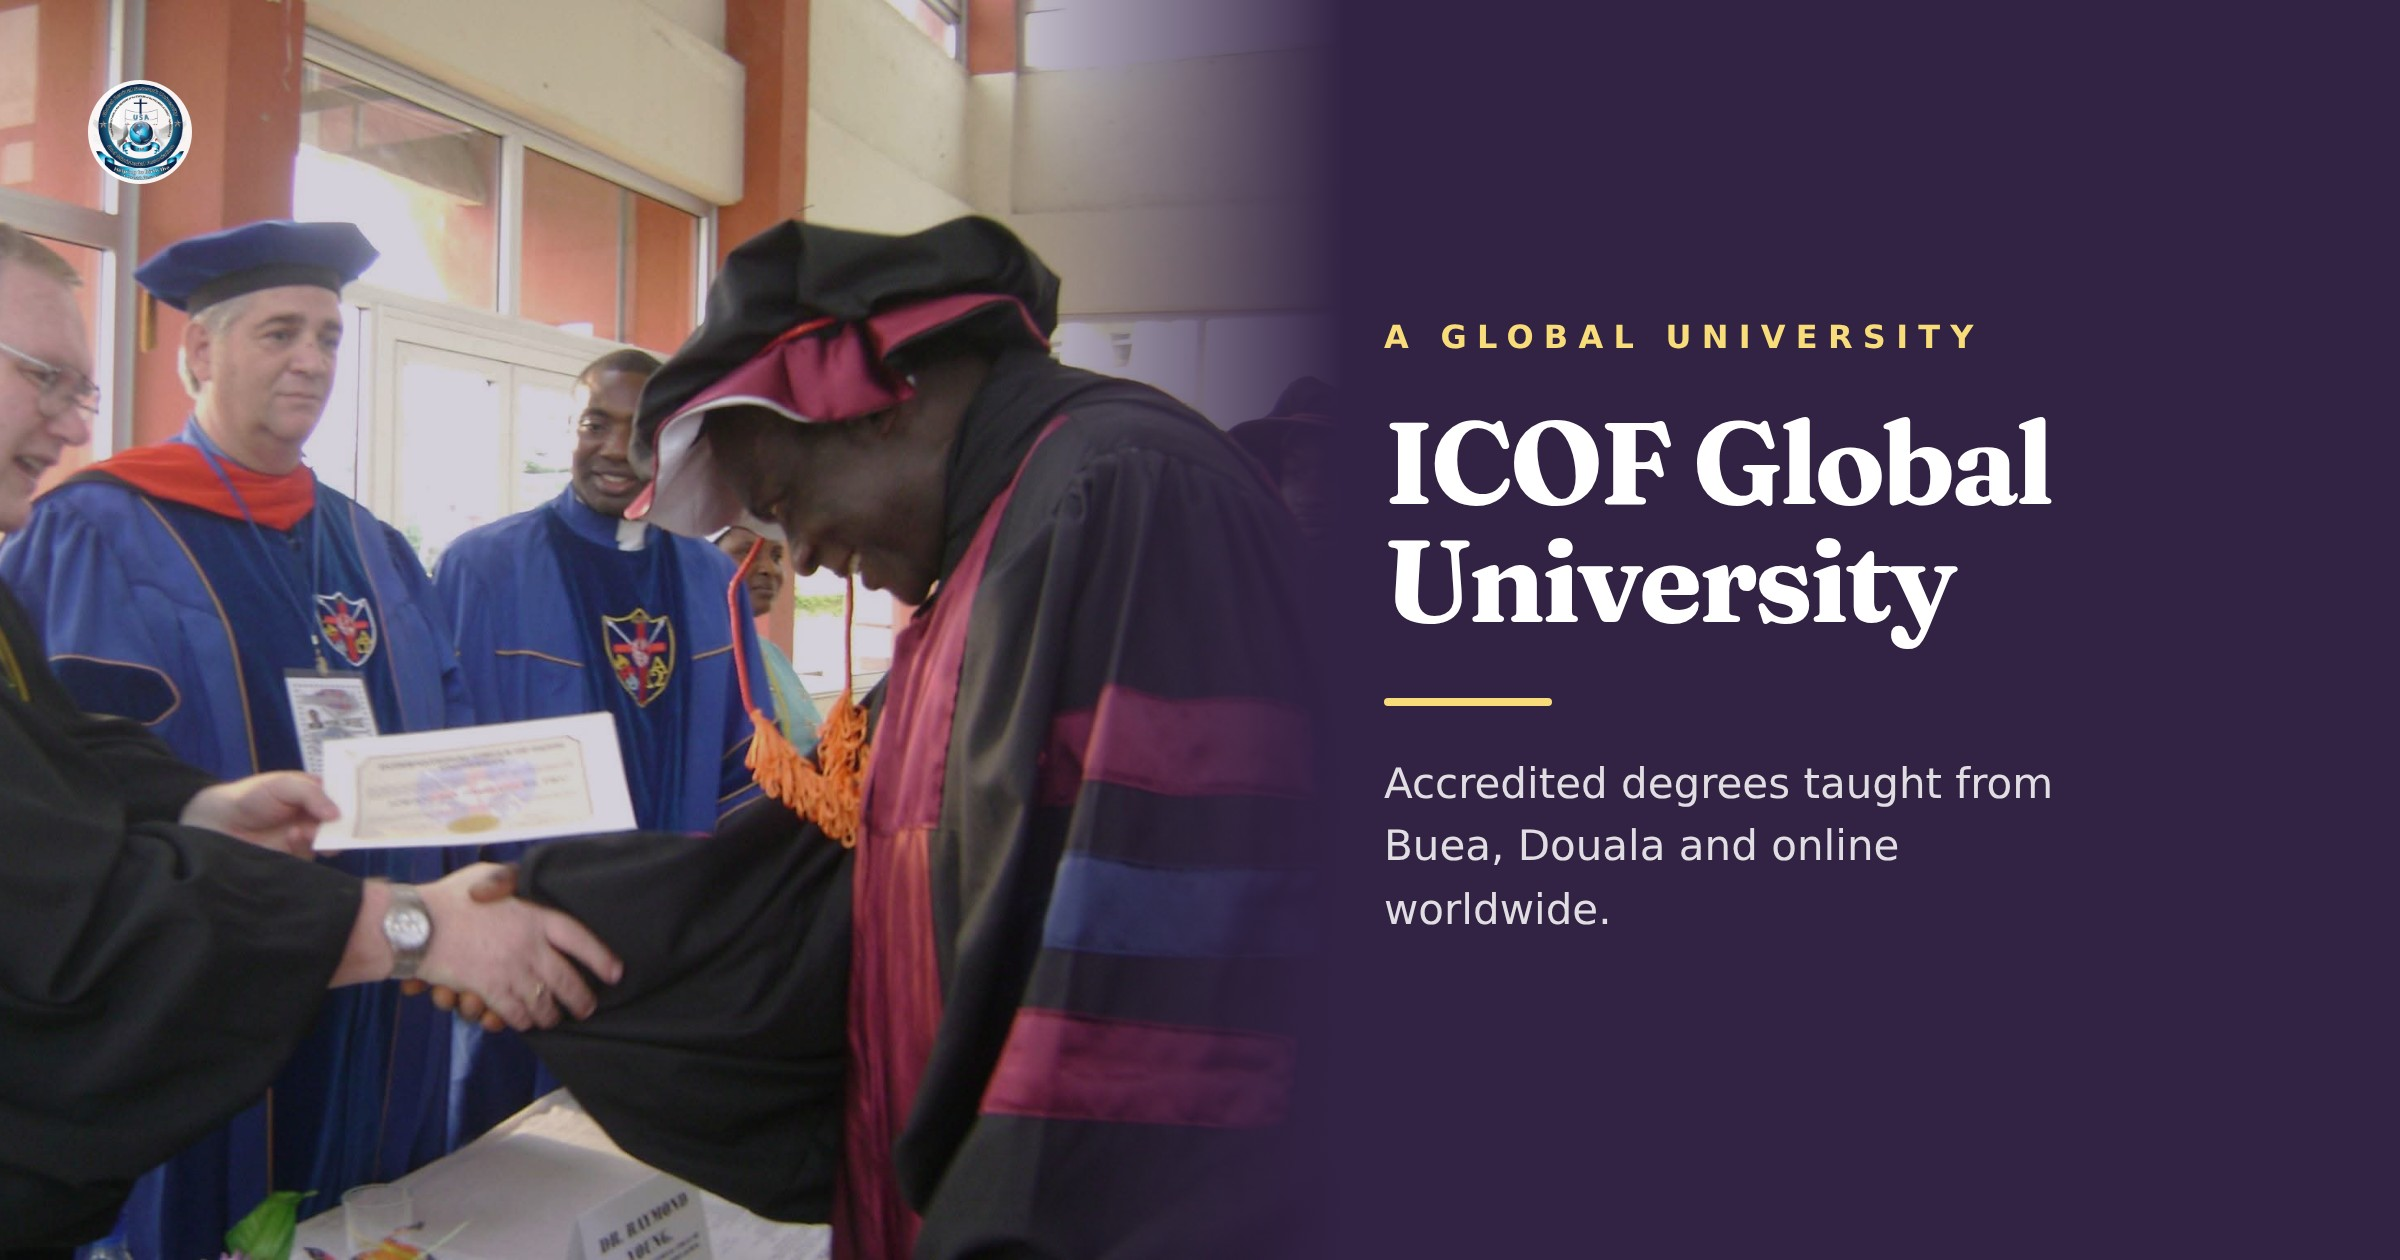
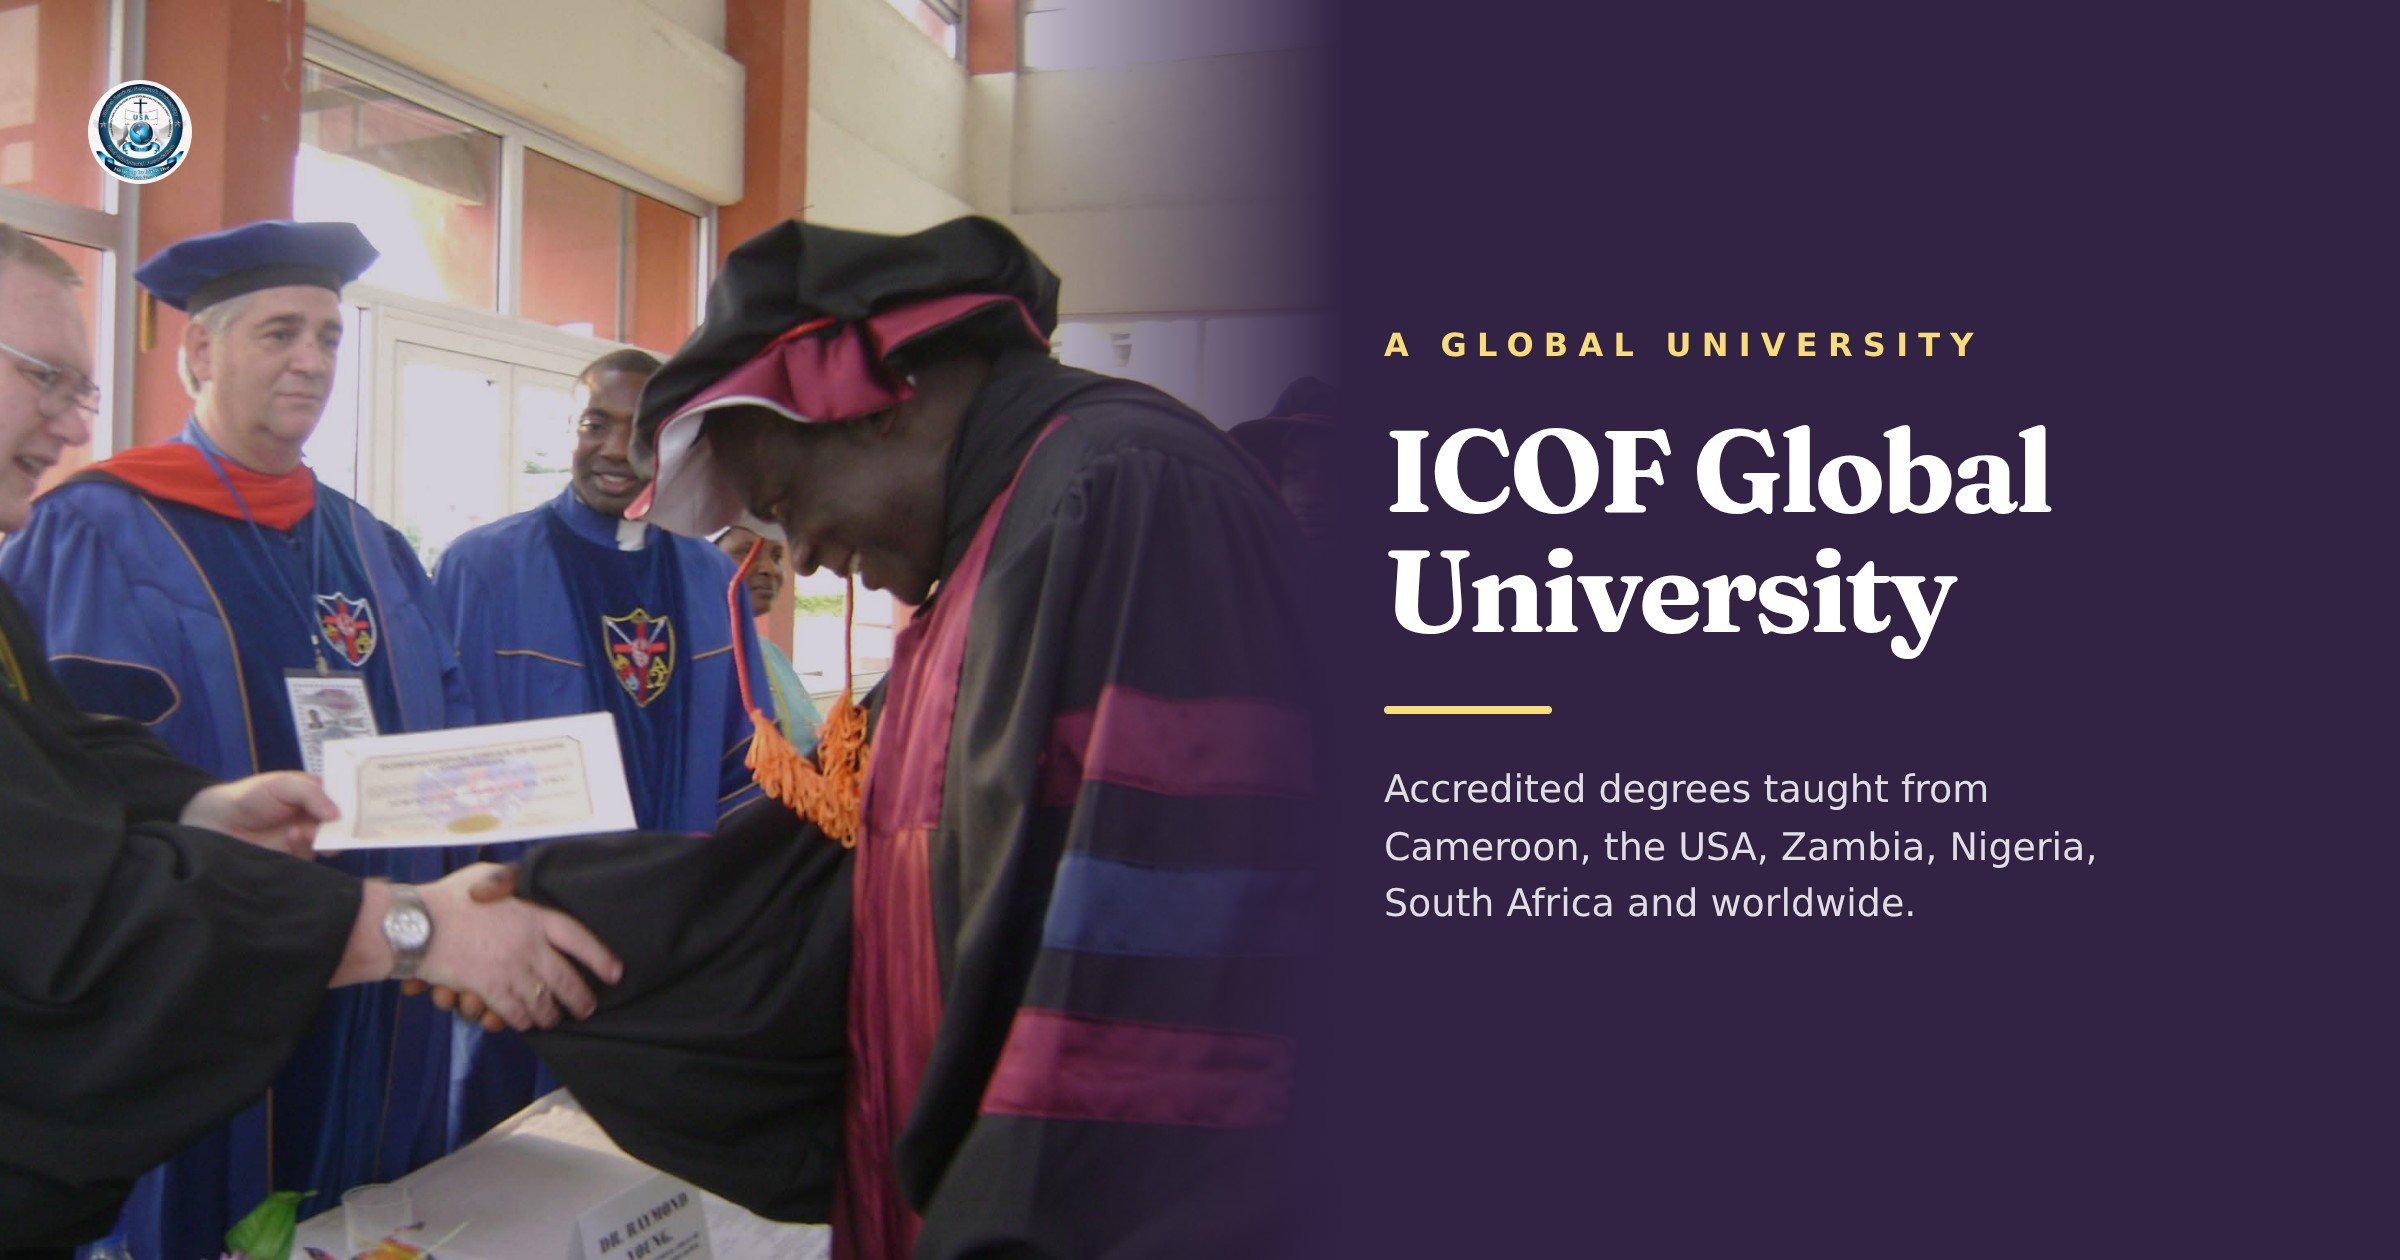
Premium chrome 17: the motto in the hero, and nations instead of towns
THE MOTTO, supplied by the university: "Leading the World with Truth,
Knowledge & Purpose." It sits ABOVE the headline, not below it. A motto
states what an institution is for; a headline is an argument aimed at one
reader. Beneath the headline this would have read as a second, weaker
strapline competing with the first — above it, in the same block as the
name it belongs to, it does what a motto does on a crest: it identifies,
and then the headline speaks.

Gold, because it is the institution's own voice and every other gold
element on this page is. At 13.5px on a purple ground gold is the correct
ink; this is not the cream-ground case where it fails.

NATIONS, NOT TOWNS. "Accredited degrees taught from Buea, Douala and
online worldwide" names two Cameroonian towns and a catch-all. It is now
Cameroon, the USA, Zambia, Nigeria, South Africa and worldwide — which is
the scale a reader outside Cameroon can place themselves in. "Douala"
means nothing in Lusaka; "Zambia" means everything.

Propagated to every place the old sentence lived rather than only the one
that was visible: the header's utility strip, the footer's copyright
line, the page description, the Twitter card description and the social
card itself, which is regenerated. A strapline changed in one of six
places is how a site starts contradicting itself.

The hero still fits its viewport exactly at 1440x900 and 390x844 —
measured, because adding a sixth line to a composition tuned to fit is
[…]

Changed region(s): [[0.5625, 0.3095, 0.875, 0.7429], [0.5625, 0.2476, 0.8438, 0.2786]]

diff --git a/website/src/components/home/HeroScene.tsx b/website/src/components/home/HeroScene.tsx
@@ -212,6 +212,24 @@ export default function HeroScene() {
             of the International Circle of Faith
           </p>
 
+          {/* THE MOTTO, given by the university, and placed ABOVE the headline
+              rather than below it.
+
+              A motto is a statement of what an institution is for; a headline
+              is an argument aimed at one reader. Set beneath the headline this
+              would have read as a second, weaker strapline competing with the
+              first. Set above it, in the same block as the name it belongs to,
+              it does what a motto does on a crest — it identifies, and then the
+              headline speaks.
+
+              Gold rather than white, because it is the institution's voice and
+              every other gold element on this page is too. It sits at 13.5px
+              on a purple ground, where gold is the CORRECT ink — this is not
+              the cream-ground case that gold fails. */}
+          <p className="mt-6 max-w-md font-heading text-[13.5px] font-bold leading-relaxed tracking-[0.02em] text-brand-gold sm:text-[15px]">
+            Leading the World with Truth, Knowledge &amp; Purpose.
+          </p>
+
           <h1
             id="hero-heading"
             className="mt-8 font-heading text-[clamp(2.7rem,6.4vw,5.1rem)] font-bold leading-[0.98] tracking-[-0.035em] [text-wrap:balance]"
@@ -221,9 +239,16 @@ export default function HeroScene() {
             <span className="text-brand-gold">academic rigour.</span>
           </h1>
 
-          <p className="mt-6 max-w-lg text-[15px] leading-relaxed text-white/85 sm:mt-8 sm:text-[17px]">
-            Accredited degrees taught from Buea, Douala and online worldwide — by people who
-            practised what they teach, to students who were never given the door.
+          {/* NATIONS, NOT TOWNS, on the university's instruction. This read
+              "from Buea, Douala and online worldwide" — the two Cameroonian
+              campuses and a catch-all. Naming countries states the reach a
+              global university actually has, and it is the scale a reader
+              outside Cameroon can place themselves in: "Douala" means nothing
+              to somebody in Lusaka, "Zambia" means everything. */}
+          <p className="mt-6 max-w-lg text-[15px] leading-relaxed text-white/85 sm:mt-7 sm:text-[17px]">
+            Accredited degrees taught from Cameroon, the USA, Zambia, Nigeria, South Africa
+            and worldwide — by people who practised what they teach, to students who were
+            never given the door.
           </p>
 
           <div className="mt-8 flex flex-wrap items-center gap-4 sm:mt-11">

diff --git a/website/src/app/page.tsx b/website/src/app/page.tsx
@@ -32,8 +32,8 @@ export const metadata: Metadata = {
   openGraph: {
     title: `${site.name} — A Global University`,
     description:
-      'Educating leaders for Africa and the world. Certificate to doctorate, on campus in Buea '
-      + 'and Douala or online from anywhere.',
+      'Educating leaders for Africa and the world. Certificate to doctorate, taught from '
+      + 'Cameroon, the USA, Zambia, Nigeria, South Africa and worldwide.',
     url: site.url,
     siteName: site.name,
     type: 'website',
@@ -67,7 +67,7 @@ export const metadata: Metadata = {
     card: 'summary_large_image',
     title: `${site.name} — A Global University`,
     description:
-      'Accredited degrees taught from Buea, Douala and online worldwide.',
+      'Accredited degrees taught from Cameroon, the USA, Zambia, Nigeria, South Africa and worldwide.',
     images: [`${site.url}/images/og-home.jpg`],
   },
 };

diff --git a/website/src/components/Header.tsx b/website/src/components/Header.tsx
@@ -151,7 +151,7 @@ export default function Header() {
       <div className="hidden border-b border-white/10 bg-brand-purple-dark/60 lg:block">
         <div className="mx-auto flex max-w-7xl items-center justify-end gap-5 px-4 py-1.5 text-[11px] font-medium tracking-wide text-white/70">
           <span className="mr-auto text-brand-gold/90">
-            A Global University · Buea · Douala · Nigeria · Online Worldwide
+            A Global University · Cameroon · USA · Zambia · Nigeria · South Africa · Worldwide
           </span>
           <Link href="/admissions" className="hover:text-brand-gold">Prospective Students</Link>
           <Link href="/portal" className="hover:text-brand-gold">Current Students</Link>

diff --git a/website/src/components/Footer.tsx b/website/src/components/Footer.tsx
@@ -104,7 +104,7 @@ export default function Footer() {
           <Link href="/fr" hrefLang="fr" className="hover:text-brand-gold">Français</Link>
           <Link href="/privacy-policy" className="hover:text-brand-gold">Privacy Policy</Link>
         </div>
-        <p>© {new Date().getFullYear()} {site.name} · A Global University · Buea · Douala · Nigeria · Online Worldwide</p>
+        <p>© {new Date().getFullYear()} {site.name} · A Global University · Cameroon · USA · Zambia · Nigeria · South Africa · Worldwide</p>
       </div>
     </footer>
   );
